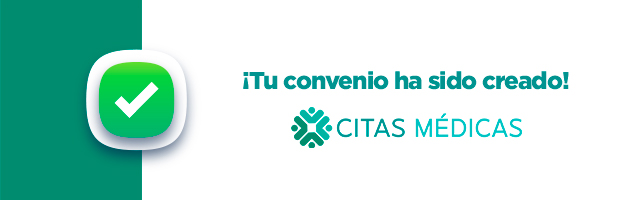
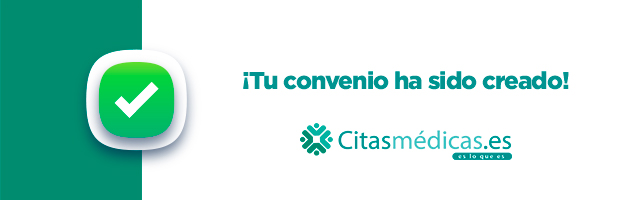
cambiando imágenes de emails

Changed region(s): [[0.4524, 0.54, 0.8444, 0.81]]

diff --git a/resources/views/inicio.blade.php b/resources/views/inicio.blade.php
@@ -460,6 +460,7 @@
         
     </main>
     <x-slot name="js">
+    <script src="//cdn.jsdelivr.net/npm/sweetalert2@11"></script>
       <script>
 
       $( "#customSwitches1" ).change(function() {
@@ -476,6 +477,114 @@
          }
 
       });
+      $('#contact-form').validate({
+            rules: {
+                name: {
+                required: true,
+              },
+              phone: {
+                required: true,
+                minlength:7
+              },
+              email: {
+                required: true,
+                email: true,
+              },
+              message: {
+                required: true,
+              },
+            },
+            messages: {
+                name: {
+                required: "Por favor ingrese el nombre",
+              },
+              num_phone: {
+                required: "Por favor ingrese un Número de Teléfono o Celular",
+                minlength: "Ingrese un número válido",
+              },
+              email: {
+                required: "Por favor ingrese un Correo Electrónico",
+                email: "Ingrese una dirección de correo válida",
+              },
+              message: {
+                required: "Por favor ingrese el mensaje a enviar",
+              },
+              
+              
+            },
+            errorElement: 'span',
+            errorPlacement: function (error, element) {
+              error.addClass('invalid-feedback');
+              element.closest('.form-group').append(error);
+            },
+            highlight: function (element, errorClass, validClass) {
+              $(element).addClass('is-invalid');
+            },
+            unhighlight: function (element, errorClass, validClass) {
+              $(element).removeClass('is-invalid');
+            },
+            submitHandler: function(form){
+                // agregar data
+                $('#contact-form').on('submit', function(e) {
+                event.preventDefault();
+                var $thisForm = $('#contact-form');
+                    var formData = new FormData(this);
+
+                    //ruta
+                    var url = "{{route('front.enviarCorreoContacto')}}";
+
+                    $.ajax({
+                        headers: {
+                            'X-CSRF-TOKEN': '{{ csrf_token() }}'
+                        },
+                        type: "post",
+                        encoding:"UTF-8",
+                        url: url,
+                        data: formData,
+                        processData: false,
+                        contentType: false,
+                        dataType:'json',
+                        beforeSend:function(){
+                          Swal.fire({
+                                title: 'Validando datos, espere por favor...',
+                                button: false,
+                                timer: 3000,
+                                timerProgressBar: true,
+                                    didOpen: () => {
+                                        Swal.showLoading()
+                                    },
+                            });
+                        }
+                    }).done(function(respuesta){
+                        //console.log(respuesta);
+                      if (!respuesta.error) {
+
+                          Swal.fire({
+                                title: respuesta.mensaje,
+                                icon: 'success',
+                                button: true,
+                                timer: 2000
+                            });
+                            setTimeout(function(){
+                                location.reload();
+                                },2000);
+
+                        } else {
+                            setTimeout(function(){
+                              Swal.fire({
+                                    title: respuesta.mensaje,
+                                    icon: "error",
+                                    button: false,
+                                    timer: 4000
+                                });
+                            },2000);
+                        } 
+                    }).fail(function(resp){
+                        console.log(resp);
+                    });
+                  });
+            }
+          });
       </script>
 
     </x-slot>

diff --git a/app/Http/Controllers/FrontendController.php b/app/Http/Controllers/FrontendController.php
@@ -80,7 +80,7 @@ class FrontendController extends Controller
             $mail->CharSet = "UTF8";
             $mail->Subject = "Correo de Contácto";
 
-            $mail->AddEmbeddedImage($_SERVER['DOCUMENT_ROOT'].'/app/public/images/emails/BannerMailing.jpg', 'img_header', '/images/emails/BannerMailing.jpg', 'base64', 'image/jpg');
+            $mail->AddEmbeddedImage($_SERVER['DOCUMENT_ROOT'].'/app/public/images/emails/nuevomensaje.jpg', 'img_header', '/images/emails/nuevomensaje.jpg', 'base64', 'image/jpg');
             $mail->AddEmbeddedImage($_SERVER['DOCUMENT_ROOT'].'/app/public/images/icons/facebook.png', "correo_facebook", '/images/icons/facebook.png', 'base64', 'image/png');
             $mail->AddEmbeddedImage($_SERVER['DOCUMENT_ROOT'].'/app/public/images/icons/instagram.png', "correo_instagram", '/images/icons/instagram.png', 'base64', 'image/png');
             // $mail->AddEmbeddedImage("images/icons/correo_whatsapp.png", "correo_whatsapp");

diff --git a/resources/views/contacto.blade.php b/resources/views/contacto.blade.php
@@ -135,7 +135,7 @@
      <x-slot name="js">
         <script src="//cdn.jsdelivr.net/npm/sweetalert2@11"></script>
         <script>
-            //form of register of user
+            //form of form contact
        $('#contact-form').validate({
             rules: {
                 name: {
@@ -224,6 +224,9 @@
                                 button: true,
                                 timer: 2000
                             });
+                            setTimeout(function(){
+                                location.reload();
+                                },2000);
 
                         } else {
                             setTimeout(function(){
